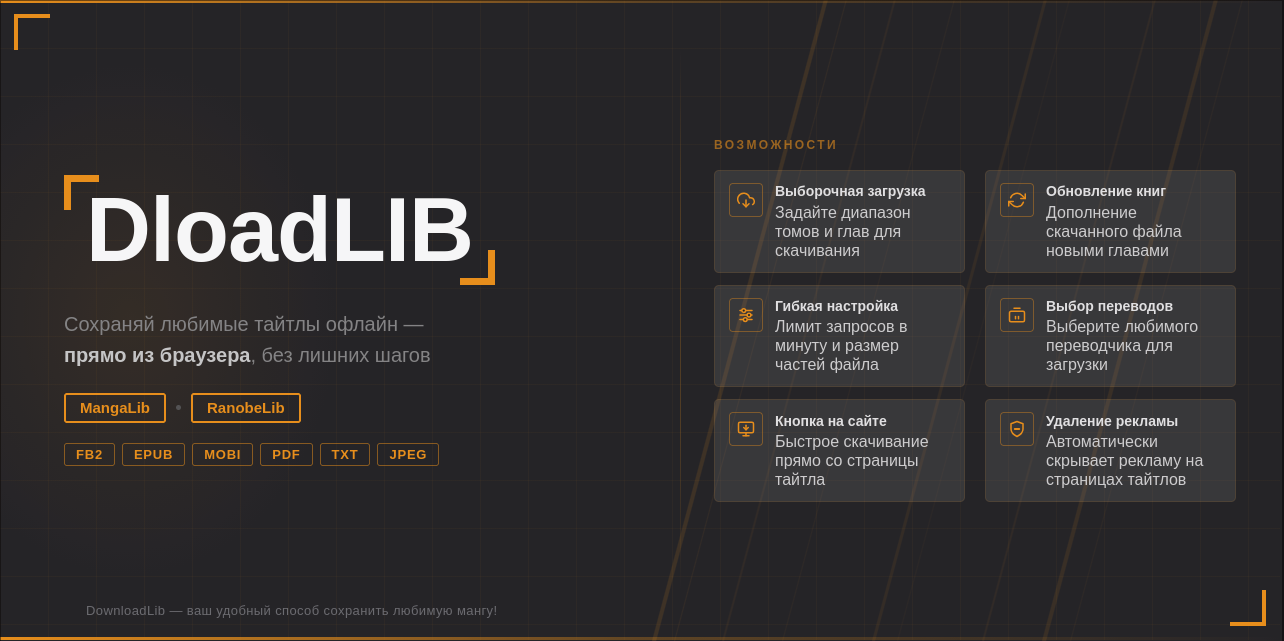
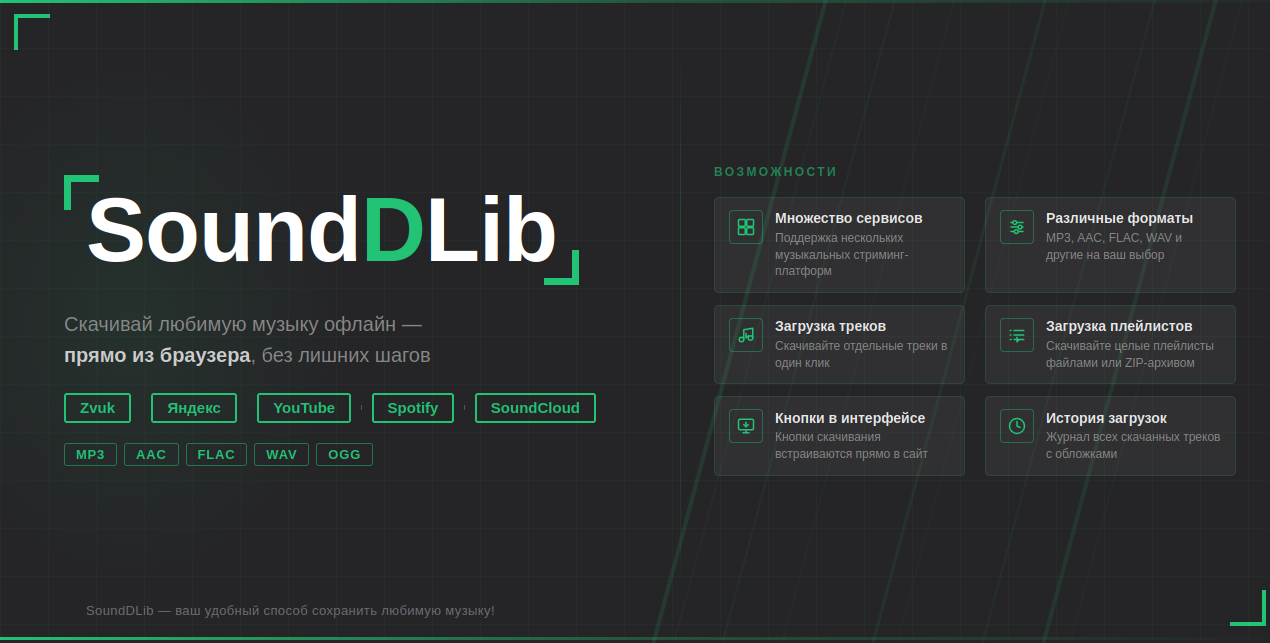
Preview update

diff --git a/screenshots/preview.html b/screenshots/preview.html
@@ -3,7 +3,7 @@
 <head>
 <meta charset="UTF-8">
 <meta name="viewport" content="width=1280">
-<title>Banner — DownloadLib</title>
+<title>Banner — SoundDLib</title>
 <style>
   * { margin: 0; padding: 0; box-sizing: border-box; }
   body {
@@ -16,34 +16,34 @@
   .bg-grid {
     position: absolute; inset: 0; pointer-events: none;
     background-image:
-      linear-gradient(rgba(255,145,0,0.04) 1px, transparent 1px),
-      linear-gradient(90deg, rgba(255,145,0,0.04) 1px, transparent 1px);
+      linear-gradient(rgba(34,195,117,0.04) 1px, transparent 1px),
+      linear-gradient(90deg, rgba(34,195,117,0.04) 1px, transparent 1px);
     background-size: 48px 48px;
   }
   .strip { position: absolute; top: -200px; height: 1100px; pointer-events: none; transform: rotate(15deg); }
-  .s1 { left: 730px; width: 4px;  background: rgba(255,145,0,0.13); }
-  .s2 { left: 752px; width: 1px;  background: rgba(255,145,0,0.07); }
-  .s3 { left: 800px; width: 2px;  background: rgba(255,145,0,0.06); }
-  .s4 { left: 860px; width: 1px;  background: rgba(255,145,0,0.05); }
-  .s5 { left: 950px; width: 3px;  background: rgba(255,145,0,0.08); }
-  .s6 { left: 975px; width: 1px;  background: rgba(255,145,0,0.04); }
-  .s7 { left: 1060px; width: 2px; background: rgba(255,145,0,0.06); }
-  .s8 { left: 1120px; width: 4px; background: rgba(255,145,0,0.10); }
-  .s9 { left: 1148px; width: 1px; background: rgba(255,145,0,0.05); }
+  .s1 { left: 730px;  width: 4px; background: rgba(34,195,117,0.13); }
+  .s2 { left: 752px;  width: 1px; background: rgba(34,195,117,0.07); }
+  .s3 { left: 800px;  width: 2px; background: rgba(34,195,117,0.06); }
+  .s4 { left: 860px;  width: 1px; background: rgba(34,195,117,0.05); }
+  .s5 { left: 950px;  width: 3px; background: rgba(34,195,117,0.08); }
+  .s6 { left: 975px;  width: 1px; background: rgba(34,195,117,0.04); }
+  .s7 { left: 1060px; width: 2px; background: rgba(34,195,117,0.06); }
+  .s8 { left: 1120px; width: 4px; background: rgba(34,195,117,0.10); }
+  .s9 { left: 1148px; width: 1px; background: rgba(34,195,117,0.05); }
 
   .glow-left {
     position: absolute; top: 50%; left: -80px; transform: translateY(-50%);
     width: 420px; height: 520px; pointer-events: none;
-    background: radial-gradient(ellipse, rgba(255,145,0,0.08) 0%, transparent 70%);
+    background: radial-gradient(ellipse, rgba(34,195,117,0.08) 0%, transparent 70%);
   }
   .line-top, .line-bottom {
     position: absolute; left: 0; right: 0; height: 3px;
-    background: linear-gradient(90deg, #ff9100 0%, rgba(255,145,0,0.3) 50%, transparent 100%);
+    background: linear-gradient(90deg, #22c375 0%, rgba(34,195,117,0.3) 50%, transparent 100%);
   }
   .line-top { top: 0; } .line-bottom { bottom: 0; }
 
   .corner { position: absolute; }
-  .corner::before, .corner::after { content: ''; position: absolute; background: #ff9100; }
+  .corner::before, .corner::after { content: ''; position: absolute; background: #22c375; }
   .c-tl { top: 14px; left: 14px; }
   .c-tl::before { top:0; left:0; width:36px; height:4px; }
   .c-tl::after  { top:0; left:0; width:4px;  height:36px; }
@@ -53,7 +53,7 @@
 
   .divider {
     position: absolute; left: 680px; top: 50px; bottom: 50px; width: 1px;
-    background: linear-gradient(180deg, transparent, rgba(255,145,0,0.22) 30%, rgba(255,145,0,0.22) 70%, transparent);
+    background: linear-gradient(180deg, transparent, rgba(34,195,117,0.22) 30%, rgba(34,195,117,0.22) 70%, transparent);
   }
 
   /* ── LAYOUT ── */
@@ -69,33 +69,34 @@
   .logo-wrap::before {
     content: ''; position: absolute; top: 0; left: 0;
     width: 28px; height: 28px;
-    border-top: 7px solid #ff9100; border-left: 7px solid #ff9100;
+    border-top: 7px solid #22c375; border-left: 7px solid #22c375;
   }
   .logo-wrap::after {
     content: ''; position: absolute; bottom: 0; right: 0;
     width: 28px; height: 28px;
-    border-bottom: 7px solid #ff9100; border-right: 7px solid #ff9100;
+    border-bottom: 7px solid #22c375; border-right: 7px solid #22c375;
   }
   .logo-text {
     font-family: Arial, 'Helvetica Neue', Helvetica, sans-serif;
     font-weight: bold; font-size: 90px; line-height: 1;
     color: #ffffff; white-space: nowrap; letter-spacing: -1px;
   }
+  .logo-text span { color: #22c375; }
 
   .tagline { font-size: 20px; color: #888; line-height: 1.55; margin-bottom: 22px; }
   .tagline strong { color: #cccccc; font-weight: bold; }
 
   .sites { display: flex; align-items: center; gap: 10px; margin-bottom: 20px; }
   .site-pill {
-    font-size: 15px; font-weight: bold; color: #ff9100;
-    border: 2px solid #ff9100; border-radius: 3px; padding: 4px 14px;
+    font-size: 15px; font-weight: bold; color: #22c375;
+    border: 2px solid #22c375; border-radius: 3px; padding: 4px 14px;
   }
   .site-sep { width: 5px; height: 5px; border-radius: 50%; background: #555; }
 
   .formats { display: flex; gap: 7px; flex-wrap: wrap; }
   .fmt {
-    font-size: 13px; font-weight: bold; color: #ff9100;
-    border: 1.5px solid rgba(255,145,0,0.5); border-radius: 3px;
+    font-size: 13px; font-weight: bold; color: #22c375;
+    border: 1.5px solid rgba(34,195,117,0.5); border-radius: 3px;
     padding: 3px 11px; letter-spacing: 0.06em;
   }
 
@@ -104,7 +105,7 @@
 
   .right-title {
     font-size: 12px; font-weight: bold; letter-spacing: 0.2em;
-    text-transform: uppercase; color: rgba(255,145,0,0.6);
+    text-transform: uppercase; color: rgba(34,195,117,0.6);
     margin-bottom: 18px;
   }
 
@@ -116,21 +117,23 @@
 
   .feat-card {
     display: flex; align-items: flex-start; gap: 12px;
-    background: rgba(255,255,255,0.09);
-    border: 1px solid rgba(255,145,0,0.12);
+    background: rgba(255,255,255,0.05);
+    border: 1px solid rgba(34,195,117,0.14);
     border-radius: 5px; padding: 12px 14px;
   }
 
   .feat-icon {
     width: 34px; height: 34px; flex-shrink: 0;
-    border: 1.5px solid rgba(255,145,0,0.4);
+    border: 1.5px solid rgba(34,195,117,0.4);
     border-radius: 4px;
     display: flex; align-items: center; justify-content: center;
   }
-  .feat-icon svg { width: 18px; height: 18px; stroke: #ff9100; fill: none; stroke-width: 2; stroke-linecap: round; stroke-linejoin: round; }
+  .feat-icon svg { width: 18px; height: 18px; stroke: #22c375; fill: none; stroke-width: 2; stroke-linecap: round; stroke-linejoin: round; }
 
   .feat-body { flex: 1; min-width: 0; }
   .feat-title { font-size: 14px; font-weight: bold; color: #e8e8e8; margin-bottom: 3px; line-height: 1.2; }
+  .feat-desc  { font-size: 12px; color: #888; line-height: 1.4; }
+
   .slogan {
     position: absolute;
     bottom: 22px; left: 86px;
@@ -159,26 +162,31 @@
 
   <!-- LEFT -->
   <div class="left">
-    <div class="logo-wrap"><span class="logo-text">DloadLIB</span></div>
+    <div class="logo-wrap"><span class="logo-text">Sound<span>D</span>Lib</span></div>
 
     <div class="tagline">
-      Сохраняй любимые тайтлы офлайн —<br>
+      Скачивай любимую музыку офлайн —<br>
       <strong>прямо из браузера</strong>, без лишних шагов
     </div>
 
     <div class="sites">
-      <div class="site-pill">MangaLib</div>
+      <div class="site-pill">Zvuk</div>
       <div class="site-sep"></div>
-      <div class="site-pill">RanobeLib</div>
+      <div class="site-pill">Яндекс</div>
+      <div class="site-sep"></div>
+      <div class="site-pill">YouTube</div>
+      <div class="site-sep"></div>
+      <div class="site-pill">Spotify</div>
+      <div class="site-sep"></div>
+      <div class="site-pill">SoundCloud</div>
     </div>
 
     <div class="formats">
-      <div class="fmt">FB2</div>
-      <div class="fmt">EPUB</div>
-      <div class="fmt">MOBI</div>
-      <div class="fmt">PDF</div>
-      <div class="fmt">TXT</div>
-      <div class="fmt">JPEG</div>
+      <div class="fmt">MP3</div>
+      <div class="fmt">AAC</div>
+      <div class="fmt">FLAC</div>
+      <div class="fmt">WAV</div>
+      <div class="fmt">OGG</div>
     </div>
   </div>
 
@@ -187,69 +195,69 @@
     <div class="right-title">Возможности</div>
     <div class="feat-grid">
 
-      <!-- 1 — Выборочная загрузка -->
+      <!-- 1 — Множество сервисов -->
       <div class="feat-card">
         <div class="feat-icon">
-          <svg viewBox="0 0 24 24"><polyline points="8 17 12 21 16 17"/><line x1="12" y1="12" x2="12" y2="21"/><path d="M20.88 18.09A5 5 0 0 0 18 9h-1.26A8 8 0 1 0 3 16.29"/></svg>
+          <svg viewBox="0 0 24 24"><rect x="2" y="2" width="9" height="9" rx="1"/><rect x="13" y="2" width="9" height="9" rx="1"/><rect x="2" y="13" width="9" height="9" rx="1"/><rect x="13" y="13" width="9" height="9" rx="1"/></svg>
         </div>
         <div class="feat-body">
-          <div class="feat-title">Выборочная загрузка</div>
-          <div class="feat-desc">Задайте диапазон томов и глав для скачивания</div>
+          <div class="feat-title">Множество сервисов</div>
+          <div class="feat-desc">Поддержка нескольких музыкальных стриминг-платформ</div>
         </div>
       </div>
 
-      <!-- 2 — Обновление книг -->
+      <!-- 2 — Различные форматы -->
       <div class="feat-card">
         <div class="feat-icon">
-          <svg viewBox="0 0 24 24"><polyline points="23 4 23 10 17 10"/><polyline points="1 20 1 14 7 14"/><path d="M3.51 9a9 9 0 0 1 14.85-3.36L23 10M1 14l4.64 4.36A9 9 0 0 0 20.49 15"/></svg>
+          <svg viewBox="0 0 24 24"><line x1="4" y1="6" x2="20" y2="6"/><line x1="4" y1="12" x2="20" y2="12"/><line x1="4" y1="18" x2="20" y2="18"/><circle cx="9"  cy="6"  r="2.5" fill="#252527" stroke="#22c375"/><circle cx="16" cy="12" r="2.5" fill="#252527" stroke="#22c375"/><circle cx="11" cy="18" r="2.5" fill="#252527" stroke="#22c375"/></svg>
         </div>
         <div class="feat-body">
-          <div class="feat-title">Обновление книг</div>
-          <div class="feat-desc">Дополнение скачанного файла новыми главами</div>
+          <div class="feat-title">Различные форматы</div>
+          <div class="feat-desc">MP3, AAC, FLAC, WAV и другие на ваш выбор</div>
         </div>
       </div>
 
-      <!-- 3 — Настройка лимитов -->
+      <!-- 3 — Загрузка треков -->
       <div class="feat-card">
         <div class="feat-icon">
-          <svg viewBox="0 0 24 24"><line x1="4" y1="6" x2="20" y2="6"/><line x1="4" y1="12" x2="20" y2="12"/><line x1="4" y1="18" x2="20" y2="18"/><circle cx="9"  cy="6"  r="2.5" fill="#252527" stroke="#ff9100"/><circle cx="16" cy="12" r="2.5" fill="#252527" stroke="#ff9100"/><circle cx="11" cy="18" r="2.5" fill="#252527" stroke="#ff9100"/></svg>
+          <svg viewBox="0 0 24 24"><path d="M9 18V5l12-2v13"/><circle cx="6" cy="18" r="3"/><circle cx="18" cy="16" r="3"/><polyline points="12,10 12,16 15,13"/></svg>
         </div>
         <div class="feat-body">
-          <div class="feat-title">Гибкая настройка</div>
-          <div class="feat-desc">Лимит запросов в минуту и размер частей файла</div>
+          <div class="feat-title">Загрузка треков</div>
+          <div class="feat-desc">Скачивайте отдельные треки в один клик</div>
         </div>
       </div>
 
-      <!-- 4 — Выбор переводов -->
+      <!-- 4 — Загрузка плейлистов -->
       <div class="feat-card">
         <div class="feat-icon">
-          <svg viewBox="0 0 24 24"><rect x="2" y="7" width="20" height="14" rx="2"/><path d="M16 3H8"/><line x1="10" y1="14" x2="10" y2="17"/><line x1="14" y1="14" x2="14" y2="17"/></svg>
+          <svg viewBox="0 0 24 24"><line x1="8" y1="6" x2="21" y2="6"/><line x1="8" y1="12" x2="21" y2="12"/><line x1="8" y1="18" x2="21" y2="18"/><polyline points="3,6 4,6"/><polyline points="3,12 4,12"/><polyline points="3,18 4,18"/><polyline points="12,15 12,21 15,18"/></svg>
         </div>
         <div class="feat-body">
-          <div class="feat-title">Выбор переводов</div>
-          <div class="feat-desc">Выберите любимого переводчика для загрузки</div>
+          <div class="feat-title">Загрузка плейлистов</div>
+          <div class="feat-desc">Скачивайте целые плейлисты файлами или ZIP-архивом</div>
         </div>
       </div>
 
-      <!-- 5 — Кнопка на сайте -->
+      <!-- 5 — Кнопки в интерфейсе -->
       <div class="feat-card">
         <div class="feat-icon">
-          <svg viewBox="0 0 24 24"><rect x="2" y="3" width="20" height="14" rx="2"/><line x1="8" y1="21" x2="16" y2="21"/><line x1="12" y1="17" x2="12" y2="21"/><polyline points="9 10 12 13 15 10" stroke-width="2"/><line x1="12" y1="7" x2="12" y2="13"/></svg>
+          <svg viewBox="0 0 24 24"><rect x="2" y="3" width="20" height="14" rx="2"/><line x1="8" y1="21" x2="16" y2="21"/><line x1="12" y1="17" x2="12" y2="21"/><polyline points="9,10 12,13 15,10" stroke-width="2"/><line x1="12" y1="7" x2="12" y2="13"/></svg>
         </div>
         <div class="feat-body">
-          <div class="feat-title">Кнопка на сайте</div>
-          <div class="feat-desc">Быстрое скачивание прямо со страницы тайтла</div>
+          <div class="feat-title">Кнопки в интерфейсе</div>
+          <div class="feat-desc">Кнопки скачивания встраиваются прямо в сайт</div>
         </div>
       </div>
 
-      <!-- 6 — Adblock -->
+      <!-- 6 — История загрузок -->
       <div class="feat-card">
         <div class="feat-icon">
-          <svg viewBox="0 0 24 24"><path d="M12 22s8-4 8-10V5l-8-3-8 3v7c0 6 8 10 8 10z"/><line x1="9" y1="12" x2="15" y2="12" stroke-width="2.5"/></svg>
+          <svg viewBox="0 0 24 24"><circle cx="12" cy="12" r="10"/><polyline points="12,6 12,12 16,14"/></svg>
         </div>
         <div class="feat-body">
-          <div class="feat-title">Удаление рекламы</div>
-          <div class="feat-desc">Автоматически скрывает рекламу на страницах тайтлов</div>
+          <div class="feat-title">История загрузок</div>
+          <div class="feat-desc">Журнал всех скачанных треков с обложками</div>
         </div>
       </div>
 
@@ -257,7 +265,7 @@
   </div>
 
 </div>
-<div class="slogan">DownloadLib — ваш удобный способ сохранить любимую мангу!</div>
+<div class="slogan">SoundDLib — ваш удобный способ сохранить любимую музыку!</div>
 
 </body>
 </html>

diff --git a/README.md b/README.md
@@ -9,10 +9,8 @@
 **Браузерное расширение для загрузки музыки и плейлистов со стриминговых площадок**
 
 [![Tests](https://github.com/ivanvit100/SoundDLib/actions/workflows/test.yaml/badge.svg)](https://github.com/ivanvit/SoundDLib/actions/workflows/test.yaml)
-![Code Coverage](https://img.shields.io/badge/Coverage-0.82%25-brightgreen)
-[![API Check](https://github.com/ivanvit100/SoundDLib/actions/workflows/health-check.yaml/badge.svg)](https://github.com/ivanvit100/SoundDLib/actions/workflows/health-check.yaml)
-
 ![Version](https://img.shields.io/badge/version-0.0.1-blue)
+![Code Coverage](https://img.shields.io/badge/Coverage-0.82%25-brightgreen)
 
 [📦 Скачать](#установка) · [⚠ Сообщить об ошибке](https://github.com/ivanvit100/SoundDLib/issues) · [✏ Участвовать в разработке](CONTRIBUTING.md)
 
@@ -38,9 +36,28 @@
   <table>
     <tr>
       <td align="center">
-        <img src="./screenshots/Zvuk_example.png" alt="Zvuk" width="300"/>
+        <img src="./screenshots/track_example.png" alt="Zvuk" width="300"/>
         <br/>
-        <sub><b>Звук</b></sub>
+        <sub><b>Загрузка трека</b></sub>
+      </td>
+      <td align="center">
+        <img src="./screenshots/playlist_example.png" alt="Zvuk" width="300"/>
+        <br/>
+        <sub><b>Загрузка плейлиста</b></sub>
+      </td>
+      <td align="center">
+        <img src="./screenshots/history_example.png" alt="Zvuk" width="300"/>
+        <br/>
+        <sub><b>История загрузок</b></sub>
+      </td>
+    </tr>
+  </table>
+  <table>
+    <tr>
+      <td align="center">
+        <img src="./screenshots/button_example.png" alt="Zvuk" width="300"/>
+        <br/>
+        <sub><b>Кнопка на сайте</b></sub>
       </td>
     </tr>
   </table>
@@ -52,8 +69,32 @@
 
 <table>
   <tr>
-    <td>⬇ <b>В разработке</b></td>
-    <td>Информация появится позже</td>
+    <td>🌐 <b>Множество сервисов</b></td>
+    <td>Поддержка нескольких музыкальных стриминг-платформ — Zvuk, Яндекс Музыка, YouTube, Spotify, SoundCloud</td>
+  </tr>
+  <tr>
+    <td>🎵 <b>Загрузка треков</b></td>
+    <td>Скачивание отдельных треков в один клик прямо со страницы сервиса</td>
+  </tr>
+  <tr>
+    <td>📋 <b>Загрузка плейлистов</b></td>
+    <td>Скачивание целого плейлиста по файлам или одним ZIP-архивом</td>
+  </tr>
+  <tr>
+    <td>🎛 <b>Различные форматы</b></td>
+    <td>Выбор формата и качества: MP3, AAC, FLAC, WAV, OGG, OPUS</td>
+  </tr>
+  <tr>
+    <td>▶ <b>Встроенный плеер</b></td>
+    <td>Предварительное прослушивание трека прямо в попапе расширения</td>
+  </tr>
+  <tr>
+    <td>🔘 <b>Кнопки в интерфейсе</b></td>
+    <td>Кнопки скачивания встраиваются напрямую в интерфейс сайта</td>
+  </tr>
+  <tr>
+    <td>🕓 <b>История загрузок</b></td>
+    <td>Журнал всех скачанных треков с обложками, исполнителями и датами</td>
   </tr>
 </table>
 
@@ -64,6 +105,7 @@
 | Браузер | Поддержка |
 |---|---|
 | **Firefox** | В разработке |
+| **Chromium** | В разработке |
 
 ---
 
